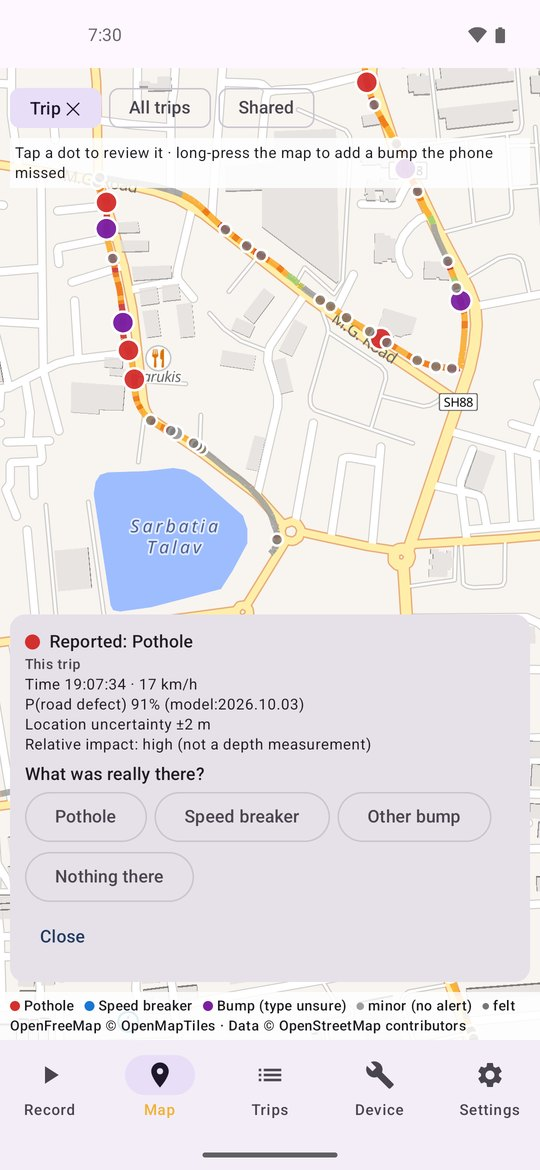
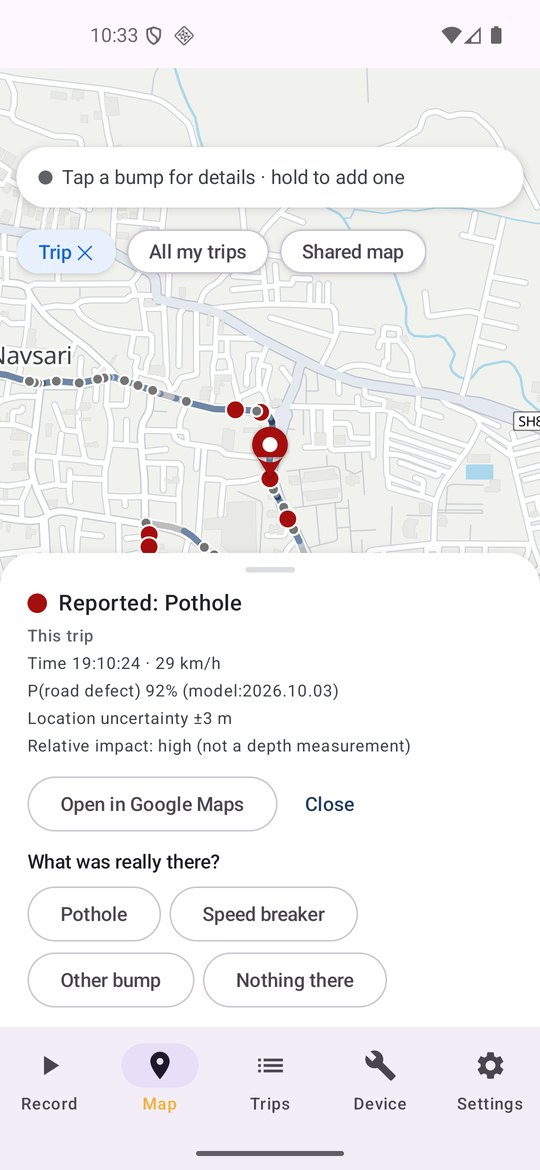
Google-Maps-like look: OpenFreeMap vector basemap (POT Light style), new map palette and app screenshots

diff --git a/index.html b/index.html
@@ -282,6 +282,11 @@ footer { padding-block: 60px 50px; color: var(--ink-3); font-size: .8rem; displa
 /* live regions re-render while you read: never let the browser anchor scrolling to them */
 .player, .ticker, #pCount, .stages, #mapStats, #funnel, .mapwrap { overflow-anchor: none; }
 .mapbox { touch-action: pan-y; }
+.hint[hidden], .toast[hidden] { display: none; }
+.stat svg { width: 12px; height: 12px; flex: none; }
+.attrib a { color: inherit; text-decoration: none; }
+.attrib a:hover { text-decoration: underline; }
+@media (max-width: 600px) { .attrib { font-size: .58rem; left: 6px; bottom: 4px; padding: 1px 5px; white-space: nowrap; } }
 .hint { position: absolute; inset: 0; display: grid; place-items: center; background: rgba(11, 18, 32, .5); color: #fff; font-weight: 700; font-size: .95rem; z-index: 5; pointer-events: none; text-align: center; padding: 20px; }
 .progress { position: fixed; top: 0; left: 0; height: 3px; width: 0; background: linear-gradient(90deg, var(--brand), var(--brand-2)); z-index: 60; }
 @keyframes floaty { 0%, 100% { translate: 0 0; } 50% { translate: 0 -9px; } }
@@ -383,7 +388,7 @@ canvas.seis { width: 100%; height: 76px; display: block; border-radius: 10px; ba
     <div class="head"><span class="kicker">Watch a ride</span><h2 id="pTitle">The 19:06 bike ride, replayed</h2><p class="muted" id="pSub">18 minutes in 30 seconds: the real route, the real reports, the real shaking.</p></div>
     <div class="card nolift player">
       <div class="ridepick" id="pRides" role="group" aria-label="Pick a ride"></div>
-      <div class="pmap" id="pmap"><svg id="pSvg" role="img" aria-label="Replay of the 19:06 bike ride on the map"></svg><div class="toast" id="toast" hidden></div></div>
+      <div class="pmap" id="pmap"><svg id="pSvg" role="img" aria-label="Replay of the 19:06 bike ride on the map"></svg><div class="toast" id="toast" hidden></div><div class="attrib">© <a href="https://www.openstreetmap.org/copyright" target="_blank" rel="noopener">OpenStreetMap</a> contributors · <a href="https://openmaptiles.org/" target="_blank" rel="noopener">OpenMapTiles</a> · <a href="https://openfreemap.org/" target="_blank" rel="noopener">OpenFreeMap</a></div></div>
       <div class="pside">
         <div class="row" style="justify-content:space-between;align-items:end"><div><div class="tiny" style="font-weight:700">Time</div><div class="clock" id="pClock"></div></div><div style="text-align:right"><div class="tiny" style="font-weight:700">Speed</div><div class="clock" style="font-size:1.6rem" id="pSpeed"></div></div></div>
         <div class="pcount" id="pCount"></div>
@@ -477,7 +482,7 @@ canvas.seis { width: 100%; height: 76px; display: block; border-radius: 10px; ba
           <div class="mapbox" id="mapbox">
             <svg id="mapSvg" role="img" aria-label="Map of rides and bumps"></svg>
             <div class="zoom"><button type="button" id="zin" aria-label="Zoom in">+</button><button type="button" id="zout" aria-label="Zoom out">−</button><button type="button" id="zfit" aria-label="Fit all rides" style="font-size:.66rem">FIT</button></div>
-            <div class="attrib">Map data © OpenStreetMap contributors</div>
+            <div class="attrib">© <a href="https://www.openstreetmap.org/copyright" target="_blank" rel="noopener">OpenStreetMap</a> contributors · <a href="https://openmaptiles.org/" target="_blank" rel="noopener">OpenMapTiles</a> · <a href="https://openfreemap.org/" target="_blank" rel="noopener">OpenFreeMap</a></div>
             <div class="tip" id="tip" hidden></div>
             <div class="hint" id="mapHint" hidden>Hold Ctrl (⌘ on Mac) and scroll to zoom the map, or use + and −</div>
           </div>
@@ -541,7 +546,7 @@ canvas.seis { width: 100%; height: 76px; display: block; border-radius: 10px; ba
 
   <footer>
     <div>Data as of 3 October 2026: one rider, one phone. Every report re-run with the shipped model (2026.10.03). Model facts from the shipped model file and its training log.</div>
-    <div>Map data © OpenStreetMap contributors.</div>
+    <div>Map data © OpenStreetMap contributors · OpenMapTiles · OpenFreeMap.</div>
   </footer>
 </main>
 
@@ -555,6 +560,10 @@ function S(tag, a = {}, parent, text) { const e = document.createElementNS(NS, t
 function H(tag, a = {}, html) { const e = document.createElement(tag); for (const k in a) e.setAttribute(k, a[k]); if (html !== undefined) e.innerHTML = html; return e; }
 const COL = { pothole: '#f05a28', speed_breaker: '#2e6bff', other_anomaly: '#12b886', normal: '#c5ccd8', non_road: '#667085', bike: '#7048e8', car: '#d08700', navy: '#14244a', brand: '#ff9f1c', brand2: '#ff5f2e', good: '#0e9f6e', line: '#e4e8f0', soft: '#eef1f7', ink: '#0b1220', ink2: '#475467', ink3: '#8a94a6', grey: '#c5ccd8' };
 const TYPES = { pothole: { name: 'Pothole', c: COL.pothole }, speed_breaker: { name: 'Speed breaker', c: COL.speed_breaker }, other_anomaly: { name: 'Type unsure', c: COL.other_anomaly } };
+/* map palette (research/maps_ui/03 §1.3) on the neutral POT Light basemap: hazard markers (pothole = high #A50E0E,
+   type unsure = medium #E8710A, speed breaker #5E35B1), slate routes (#2E3F5C bike, #6F86A6 car, #B8C7D9 detection
+   paused), Google blue for the highlighted route and the rider. Charts elsewhere keep TYPES / COL. */
+const MAPC = { pothole: '#A50E0E', speed_breaker: '#5E35B1', other_anomaly: '#E8710A', bike: '#2E3F5C', car: '#6F86A6', paused: '#B8C7D9', hot: '#1A73E8', rider: '#1A73E8' };
 const CLS = { pothole: 'Pothole', speed_breaker: 'Speed breaker', other_anomaly: 'Other bump', normal: 'Normal road', non_road: 'Not the road' };
 const ORDER = ['pothole', 'speed_breaker', 'other_anomaly', 'normal', 'non_road'];
 const VEHC = { two_wheeler: COL.bike, car: COL.car };
@@ -571,6 +580,7 @@ function shape(g, label, x, y, r, extra = {}) {
   return S('circle', Object.assign({ cx: x, cy: y, r }, a), g);
 }
 function icon(label) { const s = document.createElementNS(NS, 'svg'); s.setAttribute('viewBox', '0 0 14 14'); shape(s, label, 7, 7.5, 5.5, { stroke: 'none' }); return s; }
+function micon(label) { const s = icon(label); s.firstChild.setAttribute('fill', MAPC[label]); return s; }  // map-palette icon
 function seg(host, items, isOn, on) { host.innerHTML = ''; items.forEach(([v, label, ic]) => { const b = H('button', { type: 'button', 'aria-pressed': String(isOn(v)) }); if (ic) b.appendChild(ic()); b.appendChild(document.createTextNode(label)); b.onclick = () => on(v); host.appendChild(b); }); }
 function legend(host, items) { host.innerHTML = ''; items.forEach(([c, label, ic]) => { const s = H('span'); if (ic) s.appendChild(ic()); else s.innerHTML = `<svg viewBox="0 0 14 14"><rect width="14" height="14" rx="4" fill="${c}"/></svg>`; s.appendChild(document.createTextNode(' ' + label)); host.appendChild(s); }); }
 const typeLegend = h => legend(h, Object.keys(TYPES).map(k => [TYPES[k].c, TYPES[k].name, () => icon(k)]));
@@ -766,10 +776,10 @@ function zoomAt(f, cx, cy) { const v = MS.vb, nw = Math.min(BM.w * 1.6, Math.max
 function renderOverlay() {
   gRoutes.innerHTML = ''; gBumps.innerHTML = ''; const kk = kpx(), vr = visRides();
   for (const r of vr) {
-    const hot = MS.hot === r.id, dim = MS.hot && !hot, base = r.vehicle === 'car' ? COL.car : COL.navy; let seg2 = [], act = null;
+    const hot = MS.hot === r.id, dim = MS.hot && !hot, base = r.vehicle === 'car' ? MAPC.car : MAPC.bike; let seg2 = [], act = null;
     const flush = () => { if (seg2.length < 2) return; const d = seg2.map((p, i) => (i ? 'L' : 'M') + p[0] + ' ' + p[1]).join('');
       if (act) S('path', { d, fill: 'none', stroke: '#fff', 'stroke-width': (hot ? 11 : 8) * kk, 'stroke-linecap': 'round', 'stroke-linejoin': 'round', opacity: dim ? .4 : 1 }, gRoutes);
-      const a2 = { d, fill: 'none', stroke: hot ? COL.brand2 : act ? base : '#9aa3b2', 'stroke-width': (hot ? 6 : act ? 4 : 2.5) * kk, 'stroke-dasharray': act ? '' : `${5 * kk} ${5 * kk}`, 'stroke-linecap': 'round', 'stroke-linejoin': 'round', opacity: dim ? .3 : 1 };
+      const a2 = { d, fill: 'none', stroke: hot ? MAPC.hot : act ? base : MAPC.paused, 'stroke-width': (hot ? 6 : act ? 4 : 2.5) * kk, 'stroke-dasharray': act ? '' : `${5 * kk} ${5 * kk}`, 'stroke-linecap': 'round', 'stroke-linejoin': 'round', opacity: dim ? .3 : 1 };
       if (MS.anim && act) Object.assign(a2, { pathLength: 1, class: 'draw', 'stroke-dasharray': 1, style: 'animation-duration:2.2s' });
       S('path', a2, gRoutes); };
     for (const p of r.pts) { const a = !!p[2]; if (act !== null && a !== act) { const last = seg2.at(-1); flush(); seg2 = [last]; } act = a; seg2.push([p[0], p[1]]); }
@@ -778,7 +788,7 @@ function renderOverlay() {
   const its = items().sort((a, b) => a.p - b.p), tip = $('tip');
   for (const it of its) {
     const rpx = MS.view === 'fused' ? 4 + 9 * it.p : 3.5 + 7 * Math.max(0, (it.p - .55) / .45);
-    const el = shape(gBumps, it.label, it.x, it.y, rpx * kk, { 'stroke-width': 1.6 * kk, opacity: MS.hot && it.ride && it.ride.id !== MS.hot ? .25 : 1 }); el.style.cursor = 'pointer';
+    const el = shape(gBumps, it.label, it.x, it.y, rpx * kk, { fill: MAPC[it.label], 'stroke-width': 1.6 * kk, opacity: MS.hot && it.ride && it.ride.id !== MS.hot ? .25 : 1 }); el.style.cursor = 'pointer';
     if (MS.anim) { el.classList.add('bpop'); el.style.animationDelay = (1200 + Math.min(1400, its.indexOf(it) * 6)) + 'ms'; }
     el.addEventListener('pointerenter', () => { tip.hidden = false;
       tip.innerHTML = MS.view === 'fused' ? `<b>${TYPES[it.label].name}</b> · ${pct(it.p)} confident<br>${it.b.hits} report(s) · ${it.b.misses} clean pass(es)<br>seen on ${it.b.rides.length} ride(s)` : `<b>${TYPES[it.label].name}</b> · model ${it.p.toFixed(2)} sure<br>${VEH(it.ride.vehicle)} ride ${tIST(it.ride.start)} · ${it.speed} km/h`;
@@ -789,13 +799,13 @@ function renderOverlay() {
   const km = vr.reduce((a, r) => a + r.km, 0), c = { pothole: 0, speed_breaker: 0, other_anomaly: 0 }; its.forEach(i => c[i.label]++);
   $('mapStats').innerHTML = [[vr.length, 'rides'], [km.toFixed(1), 'km'], [its.length, MS.view === 'fused' ? 'bumps' : 'reports'], [(its.length / Math.max(km, .1)).toFixed(1), 'per km']].map(([b, s]) => `<span class="stat"><b>${b}</b>${s}</span>`).join('')
     + Object.keys(TYPES).map(t => `<span class="stat" data-t="${t}"><b>${c[t]}</b>${TYPES[t].name.toLowerCase()}</span>`).join('');
-  document.querySelectorAll('#mapStats [data-t]').forEach(e => e.prepend(icon(e.dataset.t)));
+  document.querySelectorAll('#mapStats [data-t]').forEach(e => e.prepend(micon(e.dataset.t)));
 }
 function drawControls() {
   seg($('viewSeg'), [['fused', 'Shared map'], ['rides', 'Each ride']], v => v === MS.view, v => { MS.view = v; drawControls(); renderOverlay(); });
   seg($('vehSeg'), [['all', 'All'], ['two_wheeler', 'Bike'], ['car', 'Car']], v => v === MS.veh, v => { MS.veh = v; drawControls(); drawList(); fit(visRides()); });
-  seg($('typeSeg'), Object.keys(TYPES).map(t => [t, TYPES[t].name, () => icon(t)]), t => MS.types.has(t), t => { MS.types.has(t) ? MS.types.delete(t) : MS.types.add(t); drawControls(); renderOverlay(); });
-  legend($('mapLegend'), [...Object.keys(TYPES).map(t => [TYPES[t].c, TYPES[t].name, () => icon(t)]), [COL.navy, 'bike route'], [COL.car, 'car route'], ['#9aa3b2', 'detection paused']]);
+  seg($('typeSeg'), Object.keys(TYPES).map(t => [t, TYPES[t].name, () => micon(t)]), t => MS.types.has(t), t => { MS.types.has(t) ? MS.types.delete(t) : MS.types.add(t); drawControls(); renderOverlay(); });
+  legend($('mapLegend'), [...Object.keys(TYPES).map(t => [MAPC[t], TYPES[t].name, () => micon(t)]), [MAPC.bike, 'bike route'], [MAPC.car, 'car route'], [MAPC.paused, 'detection paused']]);
   $('mapLegend').appendChild(H('span', { class: 'tiny' }, MS.view === 'fused' ? 'size = confidence' : 'size = how sure the model was'));
 }
 function drawList() {
@@ -977,10 +987,10 @@ $('next4').innerHTML = [['Survey loops on local roads', 'Tap at each pothole and
     S('image', { href: 'assets/basemap.jpg', x: 0, y: 0, width: BMp.w, height: BMp.h, preserveAspectRatio: 'none' }, svg);
     const full = R.pts.map((p, i) => (i ? 'L' : 'M') + p[0] + ' ' + p[1]).join('');
     S('path', { d: full, fill: 'none', stroke: '#fff', 'stroke-width': 10 * k, 'stroke-linecap': 'round', 'stroke-linejoin': 'round', opacity: .85 }, svg);
-    S('path', { d: full, fill: 'none', stroke: '#9aa3b2', 'stroke-width': 3 * k, 'stroke-dasharray': `${6 * k} ${6 * k}`, 'stroke-linecap': 'round' }, svg);
-    done = S('path', { fill: 'none', stroke: ride.vehicle === 'car' ? COL.car : COL.navy, 'stroke-width': 5.5 * k, 'stroke-linecap': 'round', 'stroke-linejoin': 'round' }, svg);
+    S('path', { d: full, fill: 'none', stroke: MAPC.paused, 'stroke-width': 3 * k, 'stroke-dasharray': `${6 * k} ${6 * k}`, 'stroke-linecap': 'round' }, svg);
+    done = S('path', { fill: 'none', stroke: ride.vehicle === 'car' ? MAPC.car : MAPC.bike, 'stroke-width': 5.5 * k, 'stroke-linecap': 'round', 'stroke-linejoin': 'round' }, svg);
     gD = S('g', {}, svg);
-    halo = S('circle', { r: 18 * k, fill: COL.brand2, opacity: .22 }, svg); rider = S('circle', { r: 8 * k, fill: COL.brand2, stroke: '#fff', 'stroke-width': 3 * k }, svg);
+    halo = S('circle', { r: 18 * k, fill: MAPC.rider, opacity: .2 }, svg); rider = S('circle', { r: 8 * k, fill: MAPC.rider, stroke: '#fff', 'stroke-width': 3 * k }, svg);
     vmax = Math.max(1, [...R.seis].sort((a, b) => a - b)[Math.floor(R.seis.length * .97)] * 1.15);
     pickers(); clear(); t = R.dur; render(false); fillTicker();
   }
@@ -996,11 +1006,11 @@ $('next4').innerHTML = [['Survey loops on local roads', 'Tap at each pothole and
     const a = P[i], b = P[i + 1] || a, f = b[3] > a[3] ? Math.min(1, Math.max(0, (tt - a[3]) / (b[3] - a[3]))) : 0;
     return { i, x: a[0] + (b[0] - a[0]) * f, y: a[1] + (b[1] - a[1]) * f, v: a[4] + (b[4] - a[4]) * f };
   }
-  function tickRow(d) { const row = H('div'); row.innerHTML = `<span class="mono">${clock(R.start + d[5] * 1000)}</span>`; row.appendChild(icon(d[2])); row.appendChild(H('b', {}, TYPES[d[2]].name)); row.appendChild(H('span', { class: 'mono' }, `${d[4]} km/h · ${d[3].toFixed(2)}`)); return row; }
+  function tickRow(d) { const row = H('div'); row.innerHTML = `<span class="mono">${clock(R.start + d[5] * 1000)}</span>`; row.appendChild(micon(d[2])); row.appendChild(H('b', {}, TYPES[d[2]].name)); row.appendChild(H('span', { class: 'mono' }, `${d[4]} km/h · ${d[3].toFixed(2)}`)); return row; }
   function counters(n) {
     const c = { pothole: 0, speed_breaker: 0, other_anomaly: 0 }; for (let j = 0; j < n; j++) c[R.dets[j][2]]++;
     $('pCount').innerHTML = Object.keys(TYPES).map(k2 => `<div><b>${c[k2]}</b><span data-t="${k2}">${TYPES[k2].name}</span></div>`).join('');
-    $('pCount').querySelectorAll('[data-t]').forEach(e => e.prepend(icon(e.dataset.t)));
+    $('pCount').querySelectorAll('[data-t]').forEach(e => e.prepend(micon(e.dataset.t)));
   }
   function render(animate) {
     const pos = at(t), P = R.pts;
@@ -1009,9 +1019,9 @@ $('next4').innerHTML = [['Survey loops on local roads', 'Tap at each pothole and
     let n = 0; while (n < R.dets.length && R.dets[n][5] <= t) n++;
     if (n < shown) clear();
     for (let j = shown; j < n; j++) {
-      const d = R.dets[j], el = shape(gD, d[2], d[0], d[1], (6 + 6 * Math.max(0, (d[3] - .7) / .3)) * k, { 'stroke-width': 2 * k });
+      const d = R.dets[j], el = shape(gD, d[2], d[0], d[1], (6 + 6 * Math.max(0, (d[3] - .7) / .3)) * k, { fill: MAPC[d[2]], 'stroke-width': 2 * k });
       if (animate) { el.classList.add('bpop'); const tk = $('ticker'); if (tk.firstElementChild && tk.firstElementChild.tagName === 'SPAN') tk.innerHTML = ''; tk.prepend(tickRow(d)); while (tk.children.length > 5) tk.lastChild.remove();
-        const to = $('toast'); to.hidden = false; to.innerHTML = ''; to.appendChild(icon(d[2])); to.appendChild(document.createTextNode(`${TYPES[d[2]].name} · ${Math.round(d[3] * 100)}% · beep`)); replay(to, 'x'); clearTimeout(toastT); toastT = setTimeout(() => { to.hidden = true; }, 1300); }
+        const to = $('toast'); to.hidden = false; to.innerHTML = ''; to.appendChild(micon(d[2])); to.appendChild(document.createTextNode(`${TYPES[d[2]].name} · ${Math.round(d[3] * 100)}% · beep`)); replay(to, 'x'); clearTimeout(toastT); toastT = setTimeout(() => { to.hidden = true; }, 1300); }
     }
     if (n !== shown || !animate) counters(n);
     shown = n;
@@ -1026,7 +1036,7 @@ $('next4').innerHTML = [['Survey loops on local roads', 'Tap at each pothole and
     const g = cv.getContext('2d'); g.setTransform(dpr, 0, 0, dpr, 0, 0); g.clearRect(0, 0, W, Hh);
     const n = R.seis.length, bw = W / n, cut = t / R.dur * W;
     for (let i = 0; i < n; i++) { const v = Math.min(1, R.seis[i] / vmax), hh = Math.max(1, v * (Hh - 16)), x = i * bw; g.fillStyle = x <= cut ? COL.navy : '#c9d0dc'; g.fillRect(x, Hh - hh, Math.max(1, bw - .3), hh); }
-    R.dets.forEach(d => { const x = d[5] / R.dur * W; g.globalAlpha = d[5] <= t ? 1 : .3; g.fillStyle = TYPES[d[2]].c; g.beginPath(); g.arc(x, 6, 3.5, 0, 7); g.fill(); });
+    R.dets.forEach(d => { const x = d[5] / R.dur * W; g.globalAlpha = d[5] <= t ? 1 : .3; g.fillStyle = MAPC[d[2]]; g.beginPath(); g.arc(x, 6, 3.5, 0, 7); g.fill(); });
     g.globalAlpha = 1; g.fillStyle = COL.brand2; g.fillRect(cut - 1, 0, 2.5, Hh);
   }
   const btn = $('pPlay');

diff --git a/README.md b/README.md
@@ -4,4 +4,4 @@ Showcase of a camera-free pothole and speed-breaker detector: an Android app tha
 
 Live page: https://jinayshah14.github.io/pothole-observer/
 
-Data: field rides recorded on 3 October 2026. Map data © OpenStreetMap contributors.
+Data: field rides recorded on 3 October 2026. Map data © OpenStreetMap contributors · OpenMapTiles · OpenFreeMap.
